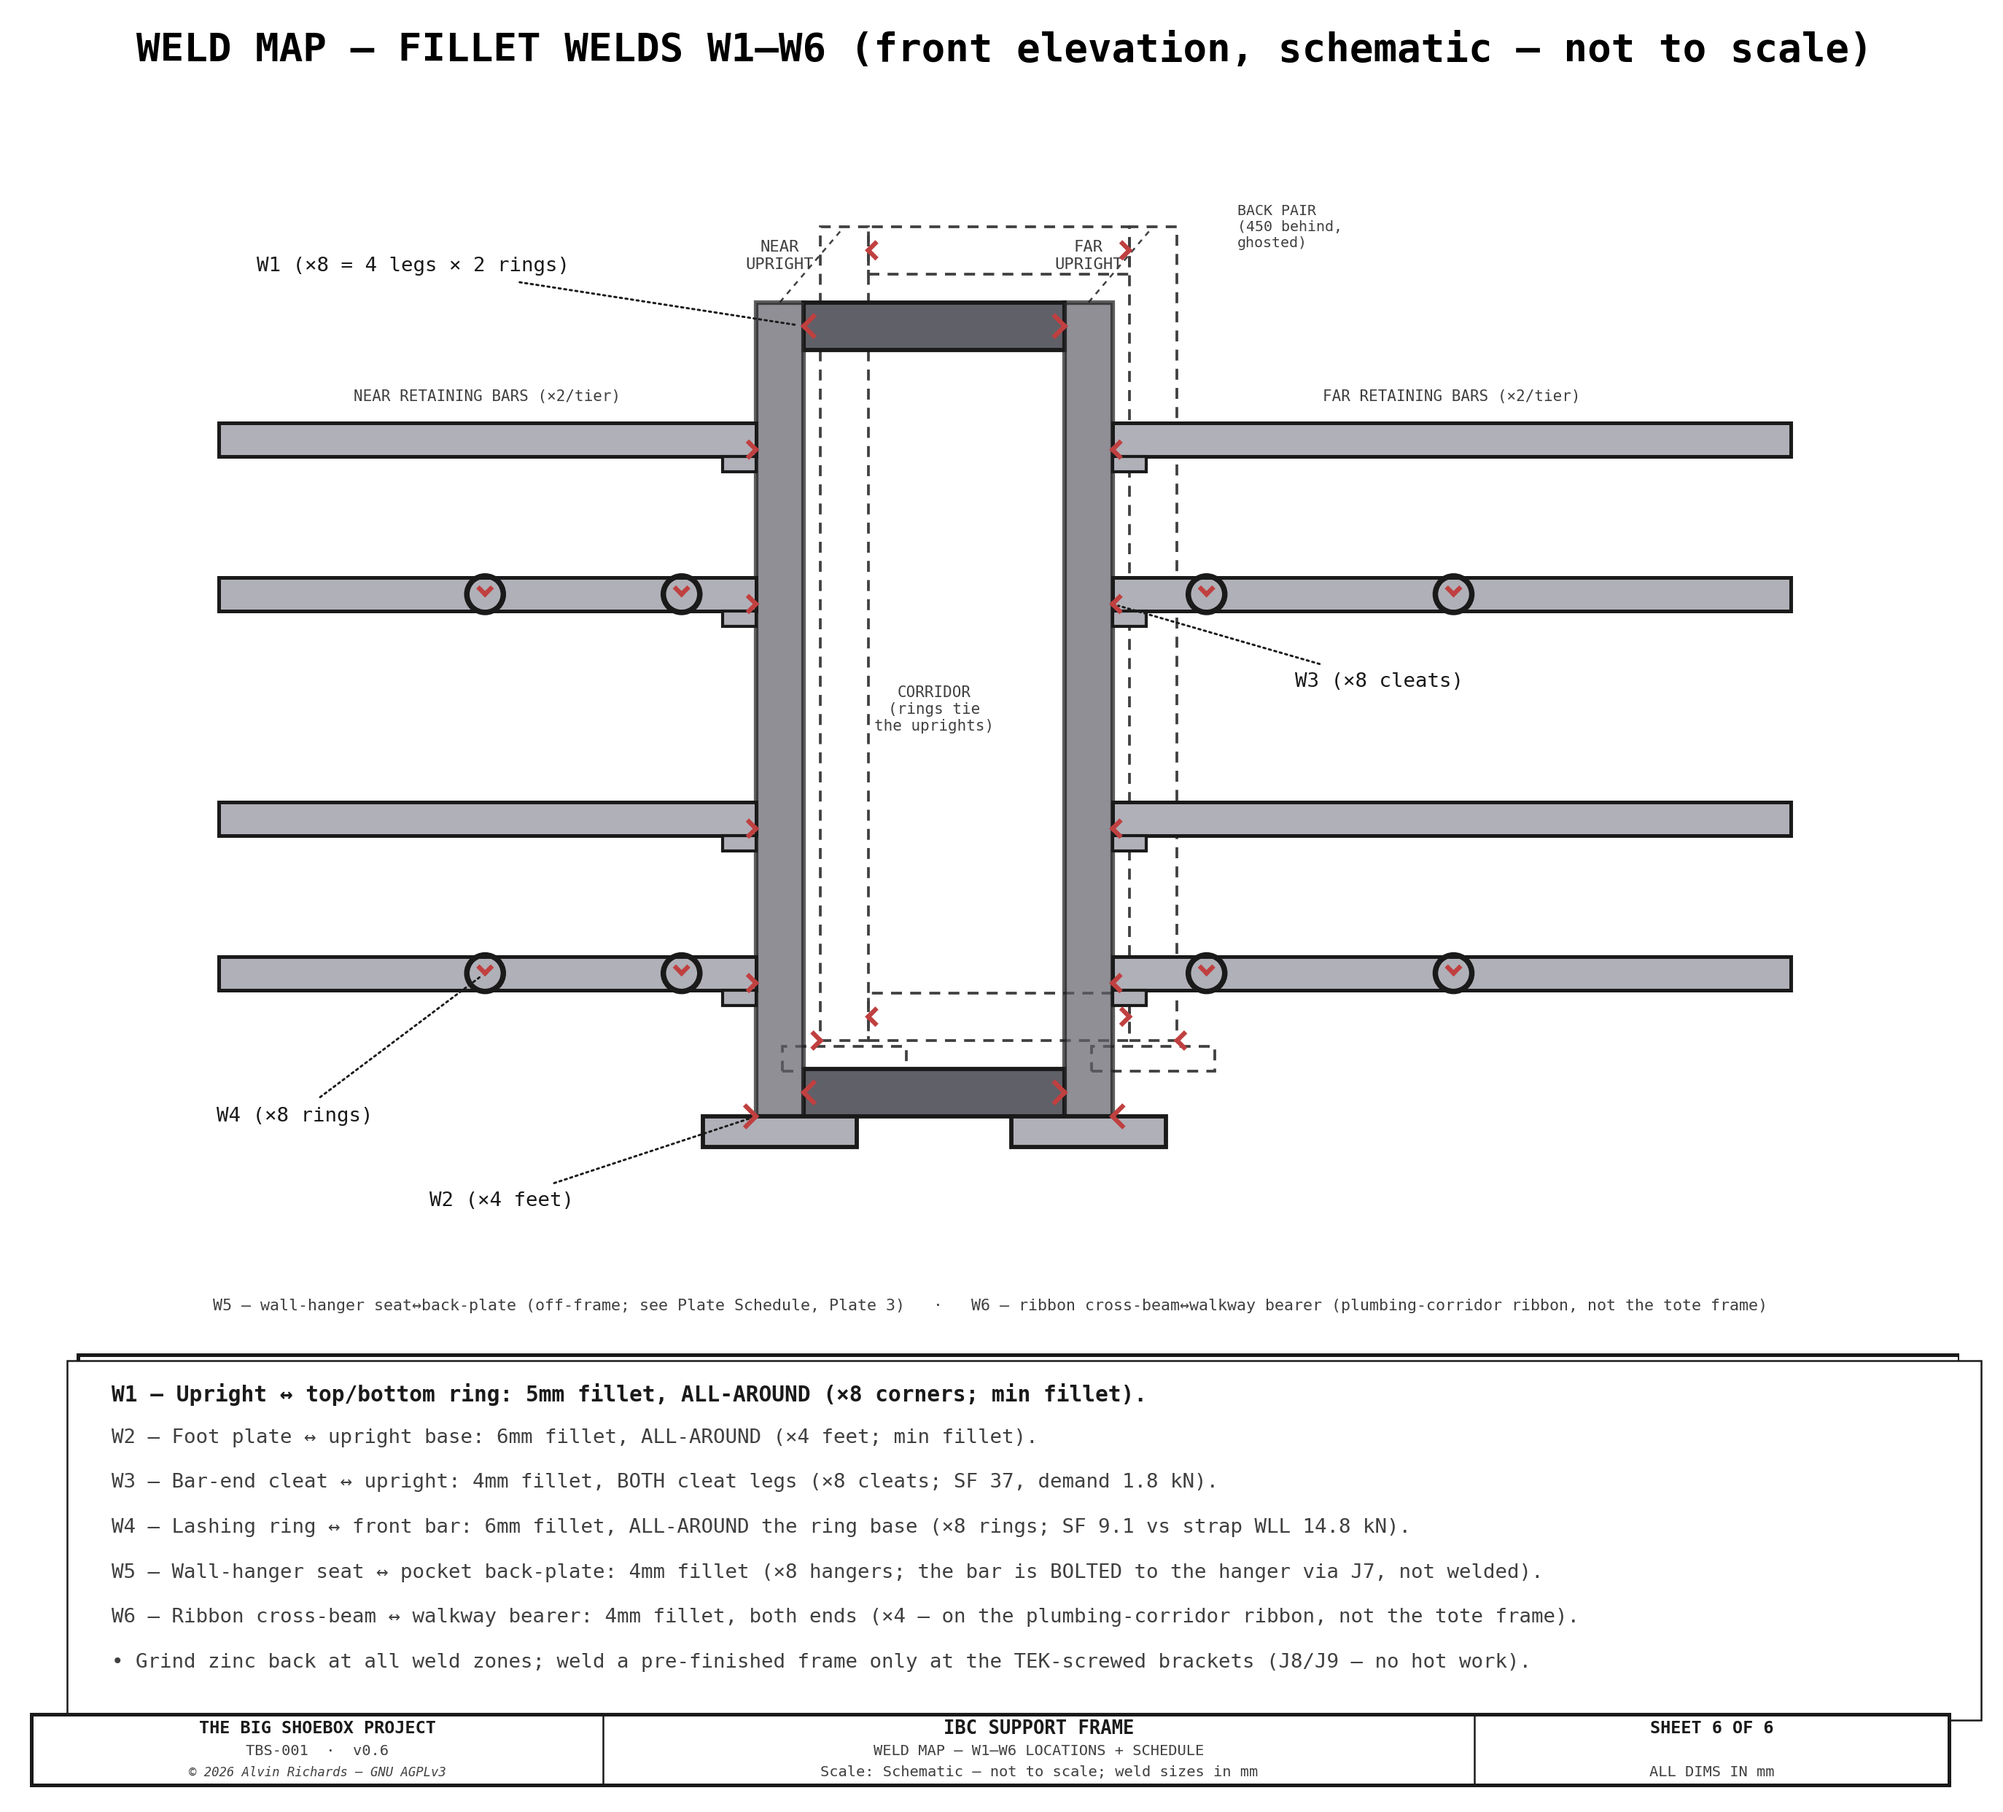
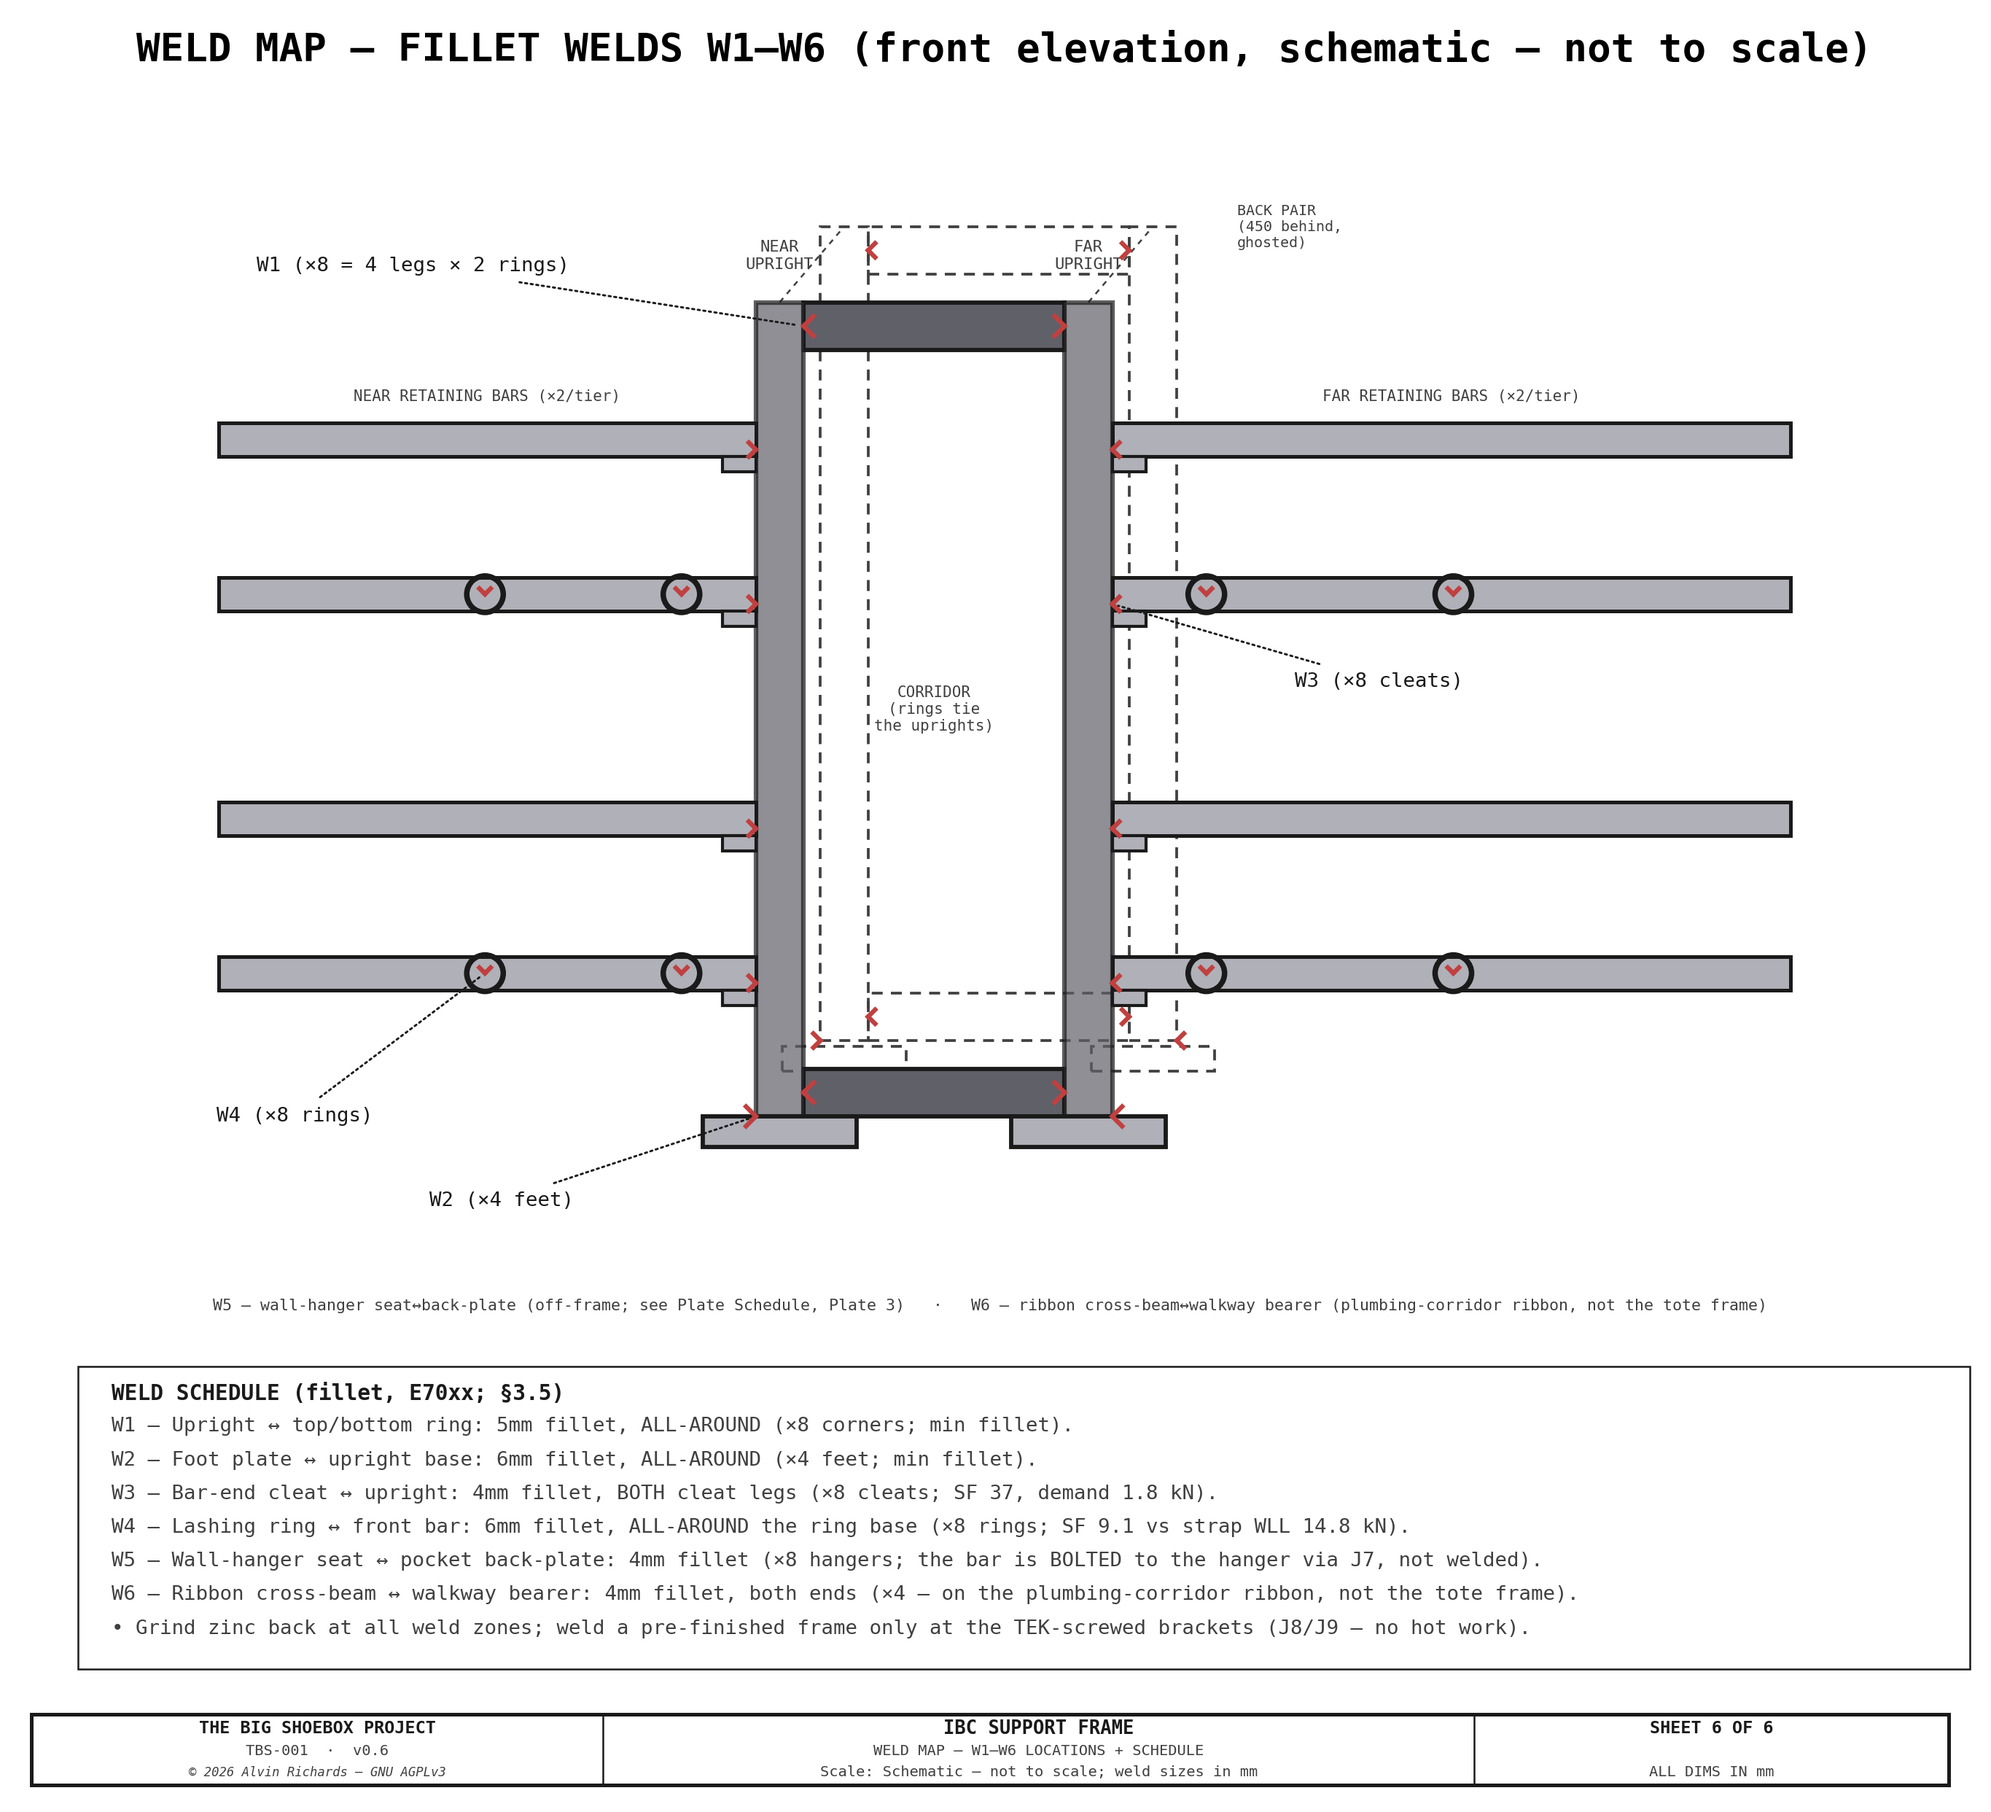
Tidy labels

diff --git a/src/generators/generate_ibc_frame_drawing.py b/src/generators/generate_ibc_frame_drawing.py
@@ -397,7 +397,7 @@ def _cut_list(ax, x, y):
         f" 12   pump-support L-brkt   1×1×⅛ angle    per detail",
         f"  4   ribbon cross-beam     25×3 flat bar  ~300",
     ]
-    draw_notes(ax, rows, x, y, spacing=(24), fs=6.2, font=FONT, width=(1500))
+    draw_notes(ax, rows, x, y, spacing=(24), fs=6.2, font=FONT, width=(700))
 
 
 def _datum_tol_block(ax, x, y):
@@ -414,7 +414,7 @@ def _datum_tol_block(ax, x, y):
         " backing-plate M12 holes ..... ±1",
         " corridor clear width ........ +2 / −0",
     ]
-    draw_notes(ax, rows, x, y, spacing=(24), fs=6.2, font=FONT, width=(1500))
+    draw_notes(ax, rows, x, y, spacing=(24), fs=6.2, font=FONT, width=(700))
 
 
 def sheet1():
@@ -673,7 +673,8 @@ def sheet1():
         f"2. RESTRAINT, not load-bearing: the 1000L caged totes DIRECT-STACK cage-on-cage (52mm headroom — no deck between tiers).",
         f"   A DEEP 4-LEG BOX (front + back upright pairs, 450mm apart, tied by top + bottom rings) at the IBC front restrains them.",
         f"3. Floor flange feet (×4): 150×150×12mm plate fillet welded to each leg base; 4× M12 anchors into the floor (uplift + lateral restraint). Front feet reach ~25mm under the tray edge.",
-        f"4. Front retaining bars (×8, 2/tote face, Z500/950 + Z1500/1950 — doubled for the EN 12195-1 loaded-transport case): stop the totes sliding out the front; each bar's wall end drops into a Simpson-style wall joist",
+        f"4. Front retaining bars (×8, 2/tote face, Z500/950 + Z1500/1950 — doubled for the EN 12195-1 loaded-transport case): stop the totes sliding out the front; each bar's wall end drops into",
+         "   a Simpson-style wall joist",
         f"   hanger (×8, one identical 2-bolt hanger per bar), through-bolted (2× M12×65) to a 60×205×8mm EXTERIOR backing plate (hex heads outside) that spreads the load into the thin corrugated wall.",
         f"5. Weld-on lashing rings on the front bars (1,100 kg assembly WLL); ratchet straps over each stack tie down to them.",
         f"6. Surface finish: gray oxide primer + flat black powder coat.",
@@ -687,8 +688,8 @@ def sheet1():
                fs=7, font=FONT, width=(2200))
 
     # ── Member cut list + datum/tolerance block (Phase D, fab-grade) ──────────
-    _cut_list(ax, (-260), (TOP_Z + 600))
-    _datum_tol_block(ax, (-260), (TOP_Z - 340))
+    _cut_list(ax, (-220), (TOP_Z + 600))
+    _datum_tol_block(ax, (-220), (TOP_Z - 340))
 
     # ── Title block ─────────────────────────────────────────────────────────
     title_block(ax, "SHEET 1 OF 6",
@@ -1333,7 +1334,7 @@ def sheet5():
         ax.plot([n0, n1], [hlz, hlz], color=C_OUT, lw=1.0, zorder=8)                       # half-lap line
         xc = (n0 + n1) / 2                                                                 # #14 TEK hold-down at EACH lap (tip + post) — from the underside up into the walkway beam
         _bolt(ax, xc, az - ah/2, ah + 6, vert=True, d=5, nut=False)                        # standard bolt/screw convention (hex head + shank), driven from the underside
-    leader(ax, (XIN0 + XIN1) / 2, az - ah/2 - 10, XT + 20, az - ah/2 - 78,
+    leader(ax, (XIN0 + XIN1) / 2, az - ah/2 - 10, XT + 100, az - ah/2 - 65,
            "#14 TEK hold-down\n(×4 — 1 per lap; see detail)", fs=5.3, font=FONT, ha="left")
     for n0, n1 in ((XIN0, XIN1), (XOUT0, XOUT1)):                                          # LOCATE each TEK clearance hole: dim_h along the arm (from the notch edge → CL)
         draw_dim_h(ax, n0, (n0 + n1) / 2, az + ah/2 + 15, "25.4", fs=4.6, font=FONT, above=True)
@@ -1459,7 +1460,8 @@ def sheet5():
         "NOTES — WALKWAY CANTILEVER ARM (×2, one per IBC FRONT upright; 2×1 SOLID steel bar, 50.8×25.4):",
         "• Reach 325mm = arm length (upright FACE → tip), INCL. the 8mm end-plate; the arm-steel stub from the outer notch to the arm end = 17mm.",
         "• Crosses BOTH long beams → TWO half-lap notches (X-located on VIEW A): outer 25mm from the post, inner at the tip, 198.4 clear.",
-        "• Notch REBALANCED to the moment (solid bar): TIP (M≈30 Nm) arm keeps 5.4 / beam 20;  POST (M≈334 Nm) arm keeps 16 (SF≈1.6) — the beam's 9.4 notch is a BEARING SEAT, so the beam spans simply-supported on its full section.",
+        "• Notch REBALANCED to the moment (solid bar): TIP (M≈30 Nm) arm keeps 5.4 / beam 20;  POST (M≈334 Nm) arm keeps 16 (SF≈1.6) — the beam's 9.4 notch is a BEARING SEAT,",
+        "  so the beam spans simply-supported on its full section.",
         "• HOLD-DOWN: 1× #14 TEK per lap (×4), from the UNDERSIDE through the beam into the solid arm (locks the beam to the seat). Arm underside Z90; top Z115 (grate).",
         "• J6 (bearing-type): an end-plate WELDED to the arm end → 2× M12 (central column, BOTH above the arm) → REAR backing plate. Full connection on Sheet 4, Det F.",
     ], 30, -30, spacing=30, fs=6.2, font=FONT, width=1310)
@@ -1555,8 +1557,8 @@ def sheet6():
             fontsize=5.2, ha="center", color=C_DIM, **FONT)
 
     # ── legend ──
-    _dcell(ax, 20, -300, 1340, 250, "WELD SCHEDULE (fillet, E70xx; §3.5)")
     draw_notes(ax, [
+        "WELD SCHEDULE (fillet, E70xx; §3.5)",
         "W1 — Upright ↔ top/bottom ring: 5mm fillet, ALL-AROUND (×8 corners; min fillet).",
         "W2 — Foot plate ↔ upright base: 6mm fillet, ALL-AROUND (×4 feet; min fillet).",
         "W3 — Bar-end cleat ↔ upright: 4mm fillet, BOTH cleat legs (×8 cleats; SF 37, demand 1.8 kN).",
@@ -1564,7 +1566,7 @@ def sheet6():
         "W5 — Wall-hanger seat ↔ pocket back-plate: 4mm fillet (×8 hangers; the bar is BOLTED to the hanger via J7, not welded).",
         "W6 — Ribbon cross-beam ↔ walkway bearer: 4mm fillet, both ends (×4 — on the plumbing-corridor ribbon, not the tote frame).",
         "• Grind zinc back at all weld zones; weld a pre-finished frame only at the TEK-screwed brackets (J8/J9 — no hot work).",
-    ], 44, -70, spacing=32, fs=6.6, font=FONT, width=1300)
+    ], 44, -70, spacing=24, fs=6.6, font=FONT, width=1300)
 
     title_block(ax, "SHEET 6 OF 6", drawing_title="IBC SUPPORT FRAME",
                 subtitle="WELD MAP — W1–W6 LOCATIONS + SCHEDULE",
